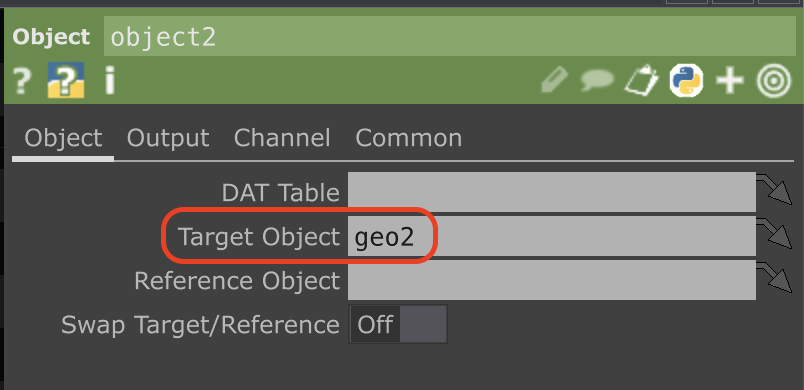
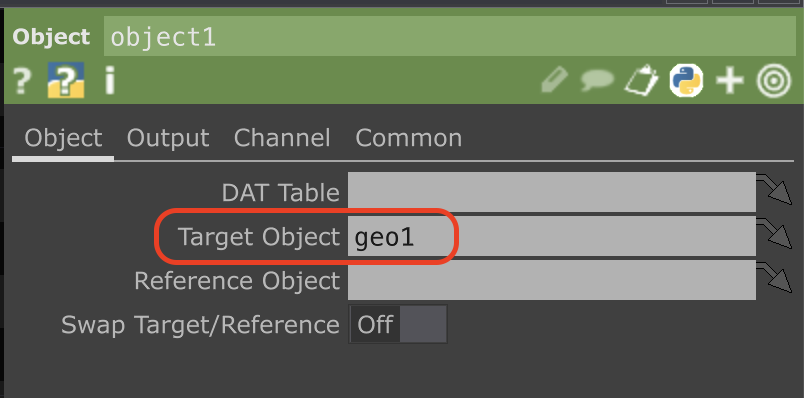
설명추가

diff --git a/docs/10_E261/09_TD_MediaPipe2.md b/docs/10_E261/09_TD_MediaPipe2.md
@@ -1,24 +1,119 @@
 # 09. TD 두 점과 원 그리기
 
-![터치디자이너 두 점과 원그리기](../img/3circle_01.png)
-![터치디자이너 두 점과 원그리기](../img/3circle_02.png){width="450px"}
-![터치디자이너 두 점과 원그리기](../img/3circle_03.png){width="450px"}
-![터치디자이너 두 점과 원그리기](../img/3circle_04.png){width="450px"}
-![터치디자이너 두 점과 원그리기](../img/3circle_05.png){width="450px"}
-![터치디자이너 두 점과 원그리기](../img/3circle_06.png){width="500px"}
-![터치디자이너 두 점과 원그리기](../img/3circle_07.png)
-![터치디자이너 두 점과 원그리기](../img/3circle_08.png){width="450px"}
-![터치디자이너 두 점과 원그리기](../img/3circle_09.png){width="450px"}
-![터치디자이너 두 점과 원그리기](../img/3circle_10.png){width="450px"}
-![터치디자이너 두 점과 원그리기](../img/3circle_11.png){width="450px"}
-![터치디자이너 두 점과 원그리기](../img/3circle_12.png){width="450px"}
-![터치디자이너 두 점과 원그리기](../img/3circle_13.png){width="450px"}
-![터치디자이너 두 점과 원그리기](../img/3circle_14.png){width="450px"}
-![터치디자이너 두 점과 원그리기](../img/3circle_15.png){width="450px"}
-![터치디자이너 두 점과 원그리기](../img/3circle_16.png){width="450px"}
-![터치디자이너 두 점과 원그리기](../img/3circle_17.png)
-![터치디자이너 두 점과 원그리기](../img/3circle_18.png){width="450px"}
-![터치디자이너 두 점과 원그리기](../img/3circle_19.png){width="450px"}
-![터치디자이너 두 점과 원그리기](../img/3circle_20.png){width="450px"}
-![터치디자이너 두 점과 원그리기](../img/3circle_21.png)
+- 3d 공간에 두 점을 찍고, 두 점 사이를 지름으로 하는 원을 그린다.
+- 두 점이 움직이면 큰 원도 같이 움직인다.
+- 두 점은 손가락 끝으로 대체될 것이다.
 
+## 두 점 그리기, 큰 원 그리기
+
+![터치디자이너 두 점과 원그리기](../img/3circle_01.png)
+
+- 3차원 공간에 도형을 표현하는 것은 **도형그리기**와 *공간에 위치하기*로 구분하여 표현한다.
+- SOP_Circle : 3차원 공간에 도형 그리기
+- SOP_Null : 도형의 최종 출력 전 임시 저장소
+- COMP_Geometry : 3차원 공간에 도형 배치하기
+- MAT_Constant : 도형에 색깔을 반영하기, Geometry에 덮어쓰면 적용된다.
+
+
+![터치디자이너 두 점과 원그리기](../img/3circle_02.png){width="350px"}
+![터치디자이너 두 점과 원그리기](../img/3circle_03.png){width="350px"}
+
+- Circle1, Circle2는 반지름을 0.1 로 세팅하고
+- Circle3은 변경 없이 그대로 둔다. (기본값 1)
+
+![터치디자이너 두 점과 원그리기](../img/3circle_04.png){width="350px"}
+![터치디자이너 두 점과 원그리기](../img/3circle_05.png){width="350px"}
+
+- 점 2개의 색깔은 MAT_Constant에서 Color 항목을 바꾸어 지정한다.
+- 큰 원을 그리게 될 Circle3은 테두리만 있고 내부는 비워진 원을 그릴 것이다.
+- MAT_Line을 사용하고 Line 탭에서 NearColor와 FarColor를 지정한다.
+
+
+## 3d 공간을 화면에 나타내기
+
+![터치디자이너 두 점과 원그리기](../img/3circle_06.png){width="500px"}
+
+- 3d 공간에 있는 이미지(도형)들은 Geometry에 의해 위치값이 설정되어 있다.
+- Geometry는 3d 공간에 있는데, 화면에 나타내는 것은 3d 공간처럼 보이는 2d 이미지다.
+- 3d 공간을 2d 평면으로 바꾸는 것이 TOP_Render 이다.
+- Render를 생성하면 여러 Geometry 들과 자동으로 연결된다.
+- TOP_Render는 COMP_Camera, COMP_Light 와 함께 사용한다.
+- Camera와 Light를 꺼내 놓으면 자동으로 연결된다.
+- Render의 출력을 모니터나 프로젝터로 지정하기 위해 TOP_Out 을 연결한다.
+- TOP_Out 오퍼레이터의 오른쪽 아래에 있는 파란색 점(디스플에이 스위치)를 누르면 TD 바탕에 Render에서 생성한 그림이 나타난다.
+
+![터치디자이너 두 점과 원그리기](../img/3circle_07.png)
+
+- 여기까지의 전체 모습
+- 점 2개는 현재 같은 곳에 위치하기 때문에 겹쳐저 1개로 보인다.
+
+
+## 큰 원의 좌표 계산
+
+![터치디자이너 두 점과 원그리기](../img/3circle_08.png)
+
+- 큰원의 좌표를 자동으로 계산하기 위한 세팅을 한다.
+- 그림은 왼쪽 부터 CHOP_Object 2개, CHOP_Select 2개, CHOP_Math 5개, CHOP_Merge 1개 배치한 모습이다.
+
+![터치디자이너 두 점과 원그리기](../img/3circle_09.png){width="350px"}
+![터치디자이너 두 점과 원그리기](../img/3circle_10.png){width="350px"}
+
+- Object의 Target Object에 점 2개의 Geometry를 넣는다.
+
+![터치디자이너 두 점과 원그리기](../img/3circle_11.png){width="350px"}
+
+- Select는 select_x 와 select_y 로 이름을 바꾸었다.
+- select_x 는 Channel Names 항목에서 tx 를 선택한다.
+- select_y 는 Channel Names 항목에서 ty 를 선택한다.
+
+![터치디자이너 두 점과 원그리기](../img/3circle_12.png){width="350px"}
+![터치디자이너 두 점과 원그리기](../img/3circle_13.png){width="350px"}
+
+- 처음 2개의 Math는 각각 select_x와 select_y로 부터 입력 받는다. (선 연결)
+- 이름을 average_x 와 average_y 로 바꾸었다.
+- OP 탭의 Combine Channel 에서 Average 를 선택, 입력된 2 채널 값의 평균을 구한다.
+- Common 탭에서 출력되는 값의 이름을 바꾼다. 그림에서는 x 라고 했다.
+- select_y 의 Common 탭에서 이름 바꾸기는 y 로 한다.
+
+![터치디자이너 두 점과 원그리기](../img/3circle_14.png){width="350px"}
+
+- 3번 4번 Math는 subtract_x와 subtract_y 로 이름을 바꾸었다.
+- OP 탭에서 Comebine Channel에서 Subtract 선택한다.
+- 입력된 두 값(두 점의 x 또는 y 좌표)의 차이를 계산한다.
+
+![터치디자이너 두 점과 원그리기](../img/3circle_15.png){width="350px"}
+![터치디자이너 두 점과 원그리기](../img/3circle_16.png){width="350px"}
+
+- 5번째 Math는 squre_add_root_half 라고 이름을 바꾸었다.
+- 입력된 두 값(x 좌표 차이, y좌표 차이)을 각각 제곱하여 더하고, 더한 값에 루트를 씌운 값을 찾고
+- 최종 값을 2로 나눈 결과를 출력한다.
+- 이 계산은 두 점 사이의 거리를 계산하는 것이다.
+- 피타고라스의 정리에 의한 빗변 길이 구하는 공식에 의한 것
+- OP 탭 Channel Pre Op 항목은 Squre 선택, 계산 전에 각 채널 값을 각각 제곱한다.
+- Combine CHOPs : 입력된 두 OP들을 합치는 방법은 'Add'
+- Channel Post Op : 합쳐진 결과에 추가로 처리할 내용은 'Root', 제곱을 폴어 낸다.
+- 여기까지 나온 결과가 두 점 사이의 거리가 된다.
+- Mult-Add 텝에서 Multi-Add에 0.5 를 세팅한다.
+- 계산 결과에  'x0.5' 를 적용한다. 두 점 사이의 거리를 반으로 줄인다. 반지름이 된다.
+
+![터치디자이너 두 점과 원그리기](../img/3circle_17.png){width="350px"}
+
+- Common 탭에서 이름을 r 로 바꾼다. (반지름 : radius)
+- 여기까지 계산된 결과를 CHOP_merge에 넣는다.
+- Merge는 3가지 값 (x, y, r)을 한꺼번에 가지고 있다.
+
+![터치디자이너 두 점과 원그리기](../img/3circle_18.png){width="350px"}
+
+- Merge 값을 3번째 원(circle3)의 Geometry(geo3)에 적용한다.
+- Translate xy 값에 x, y를 넣고, Scale xy에 반지름 r 값을 넣는다.
+
+## 점과 원의 좌표 이동
+
+![터치디자이너 두 점과 원그리기](../img/3circle_19.png)
+![터치디자이너 두 점과 원그리기](../img/3circle_20.png){width="350px"}
+![터치디자이너 두 점과 원그리기](../img/3circle_21.png){width="350px"}
+
+- COMP_Camera의 View 탭에서 FOV Angle을 100으로 세팅한다. (카메라 넓게 보기)
+- 두 점의 좌표(geo1, geo2)를 수정하면, 점 위치에 따라 큰 원이 따라 다니게 된다.
+- 첫 번째 점(circle1)을 이동하기 위해 geo1의 Translate 값을 수정했다.
+- 미디어 파이프를 사용해 엄지와 검지 손가락 끝 지점의 좌표를 두 점에 적용할 것이다.
